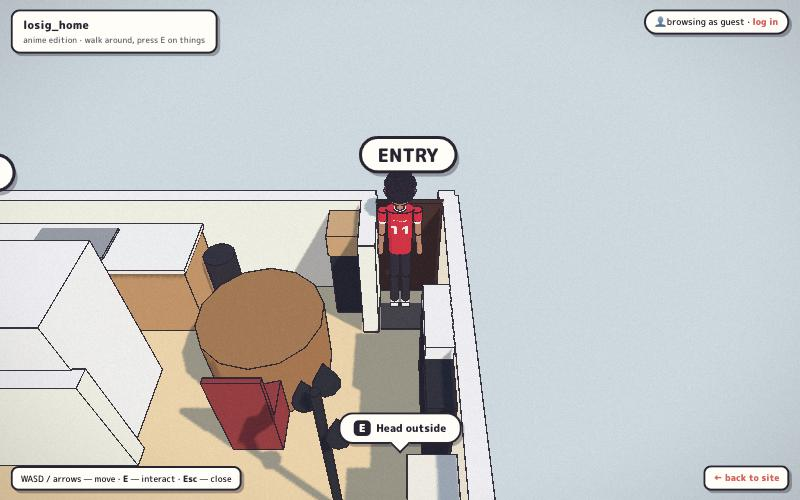
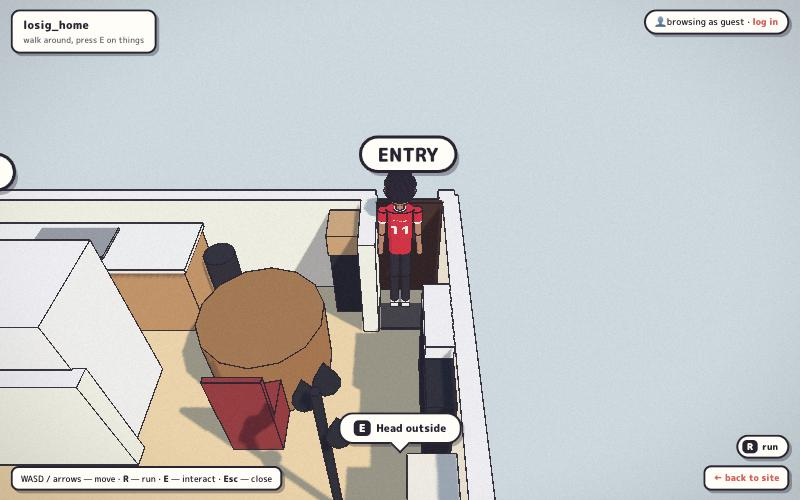
Closer outdoor camera, RAV4 marker, R to run
- outdoor camera pulled in (27 up, 25 back) so Ani reads bigger
- "MY RAV4" speech-bubble sticker floats over the car (overlay, visible
  through walls) so it's easy to find in the lot
- R toggles run (Run sticker on touch): 9 -> 20 ft/s outside, 6.5 -> 11
  in the apartment
- typing in panel forms no longer counts as game input (an "e" in a
  title used to close the panel)
- title badge drops "anime edition"; help line lists R
- screenshots and design doc refreshed

diff --git a/app/templates/game.html b/app/templates/game.html
@@ -34,6 +34,15 @@
   #prompt .key { display: inline-block; background: var(--ink); color: var(--paper);
     border-radius: 7px; padding: 0 8px; margin-right: 8px; }
   @keyframes bob { 50% { transform: translateX(-50%) translateY(-4px); } }
+  /* run toggle: R on a keyboard, this sticker on touch; inverted while running */
+  #run { bottom: 62px; right: 16px; font: inherit; font-size: .85rem; font-weight: 800; border-radius: 999px;
+    padding: 5px 14px 5px 6px; cursor: pointer; display: flex; align-items: center; gap: 7px;
+    -webkit-tap-highlight-color: transparent; }
+  #run .key { background: var(--ink); color: var(--paper); border-radius: 7px; padding: 0 7px; }
+  #run.on { background: var(--ink); color: var(--paper); }
+  #run.on .key { background: var(--paper); color: var(--ink); }
+  #run:active { transform: translate(2px, 2px); box-shadow: 1px 1px 0 rgba(42,36,51,.35); }
+  body.touch #run { padding: 10px 18px; font-size: 1rem; bottom: 64px; }
   /* interaction panel: paper drawer on the right */
   #panel { position: fixed; top: 12px; right: 12px; bottom: 12px; width: min(400px, calc(100vw - 24px));
     z-index: 20; background: var(--paper); color: var(--ink); border: 3px solid var(--ink);
@@ -93,7 +102,8 @@
   body.touch #prompt { -webkit-user-select: none; user-select: none; -webkit-touch-callout: none; }
   @media (max-width: 600px) { #title .sub, #help { display: none; }
     #authpill { top: auto; right: auto; bottom: 14px; left: 16px; }
-    #credit { left: auto; right: 12px; transform: none; } }
+    #credit { left: auto; right: 12px; transform: none; }
+    #prompt { bottom: 124px; } }
 </style>
 <script type="importmap">
 { "imports": { "three": "https://cdn.jsdelivr.net/npm/three@0.160.0/build/three.module.js" } }
@@ -102,10 +112,11 @@
 <body>
 <div id="scene"></div>
 
-<div class="hud" id="title"><b>losig_home</b><div class="sub">anime edition · walk around, press E on things</div></div>
+<div class="hud" id="title"><b>losig_home</b><div class="sub">walk around, press E on things</div></div>
 <div class="hud" id="authpill">…</div>
-<div class="hud" id="help"><span class="key-only">WASD / arrows — move · <b>E</b> — interact · <b>Esc</b> — close</span><span class="touch-only">drag anywhere — move · tap the bubble — interact</span></div>
+<div class="hud" id="help"><span class="key-only">WASD / arrows — move · <b>R</b> — run · <b>E</b> — interact · <b>Esc</b> — close</span><span class="touch-only">drag anywhere — move · tap the bubble — interact</span></div>
 <div class="hud" id="exit"><a href="/">← back to site</a></div>
+<button class="hud" id="run" type="button" aria-pressed="false"><span class="key key-only">R</span><span class="touch-only">🏃</span>run</button>
 <div class="hud" id="prompt" role="button"><span class="key"><span class="key-only">E</span><span class="touch-only">tap</span></span><span id="promptLabel"></span></div>
 <div id="stick" aria-hidden="true"><div class="knob"></div></div>
 <div class="hud" id="place" aria-live="polite"></div>

diff --git a/app/static/game/outside.js b/app/static/game/outside.js
@@ -14,7 +14,7 @@ does, its walls sink to the apartment's 4 ft cutaway height, the roof
 comes off, and a hollow version with cream partition walls and carpet
 takes its place, the same trick that makes the apartment readable.
 */import * as THREE from 'three';
-import { pencil, addLights, followSun, LABEL_FONT } from './pencil.js';
+import { pencil, addLights, followSun, makeMarker, LABEL_FONT } from './pencil.js';
 import { createBatch } from './batch.js';
 import { createRav4, drawParkedCar } from './car.js';
 import * as LOT from './home_lot.js';
@@ -50,7 +50,8 @@ const CAR_KINDS = ['sedan', 'suv', 'hatch', 'sedan', 'suv', 'sedan'];
 
 const CUT_H = 4;          // matches the apartment's cutaway walls
 const WALK_H = 0.25;      // sidewalks and walks are a step up from the grass
-const RUN = 13;           // ft/s on foot outside (a jog; the apartment walks at 6.5)
+const WALK_SPEED = 9;     // ft/s on foot outside (a brisk walk; the apartment is 6.5)
+const RUN_SPEED = 20;     // with run on (R / the Run button): a sprint
 
 // small deterministic PRNG so the woods grow the same way every load
 function rng(seed) {
@@ -541,6 +542,15 @@ export function buildOutside() {
 
   scene.add(b.build());
 
+  // a speech-bubble sticker over the RAV4 so it's easy to pick out of the lot;
+  // drawn in the un-inked overlay like the apartment's room labels, through walls
+  const overlay = new THREE.Scene();
+  const marker = makeMarker('MY RAV4');
+  const markerBase = new THREE.Vector3().copy(rav4.group.position).setY(7.2);
+  marker.position.copy(markerBase);
+  overlay.add(marker);
+  let markerT = 0;
+
   // standing height: sidewalks and walks are a step up
   function heightAt(x, z) {
     for (const r of LOT.WALKS) if (inRect(x, z, r)) return WALK_H;
@@ -570,6 +580,8 @@ export function buildOutside() {
   function update(dt, camera, player) {
     const { x, z, y } = player.state;
     followSun(sun, x, z);
+    markerT += dt;
+    marker.position.y = markerBase.y + Math.sin(markerT * 2.6) * 0.35;
     chest.set(x, y + 3.4, z);
     head.set(x, y + 6.2, z);
     for (const c of cuttables) {
@@ -588,18 +600,19 @@ export function buildOutside() {
 
   return {
     scene,
-    overlay: null,
+    overlay,
     colliders,
     bounds: LOT.BOUNDS,
     interactables: [
       { id: 'home-door', label: 'Go inside', x: 37.5, z: 63.9, r: 2.4, go: 'apartment' },
     ],
     entry: LOT.ENTRY,
-    speed: RUN,
+    speed: WALK_SPEED,
+    runSpeed: RUN_SPEED,
     heightAt,
     update,
     rav4,
-    view: { off: [0, 38, 36], lookY: 3, near: 0.5, far: 900, ink: [200, 520], widen: true },
+    view: { off: [0, 27, 25], lookY: 3, near: 0.5, far: 900, ink: [200, 520], widen: true },
     caption: 'Home · parking lot',
   };
 }

diff --git a/app/static/game/player.js b/app/static/game/player.js
@@ -5,9 +5,9 @@ Liverpool home jersey (M.SALAH 11), black jeans, white sneakers. Two-segment arm
 the code-driven walk cycle knees and elbows. Circle-vs-AABB collision,
 axis-separated so you slide along walls. Local +Z is forward.
 
-Each area hands update() its own colliders, walkable bounds, top speed and
-ground height (outside: a step up onto sidewalks). Past a brisk walk the
-cycle blends into a run: longer stride, bent arms, a forward lean.
+Each area hands update() its own colliders, walkable bounds, walk and run
+speeds and ground height (outside: a step up onto sidewalks). Past a brisk
+walk the cycle blends into a run: longer stride, bent arms, a forward lean.
 */import * as THREE from 'three';
 import { pencil } from './pencil.js';
 
@@ -195,9 +195,11 @@ export function createPlayer(scene) {
   }
 
   // move: {x, z} in world axes; length 1 is full speed (a touch stick can
-  // push less than that to walk slower). area: { colliders, bounds, speed, heightAt }
-  function update(dt, move, area) {
-    const speed = area.speed || WALK;
+  // push less than that to walk slower). area: { colliders, bounds, speed,
+  // runSpeed, heightAt }; running switches to the area's run speed.
+  function update(dt, move, area, running = false) {
+    const walk = area.speed || WALK;
+    const speed = running ? area.runSpeed || walk * 1.8 : walk;
     let dx = move.x, dz = move.z;
     const len = Math.hypot(dx, dz);
     state.moving = len > 0;
@@ -214,7 +216,7 @@ export function createPlayer(scene) {
       state.walkT += dt * 11 * (v <= 1 ? v : 1 + (v - 1) * 0.45);
     }
     // ease the run blend so the gait doesn't snap when a thumb wavers
-    const runTarget = state.moving ? Math.min(1, Math.max(0, (speed * pace - 8) / 4)) : 0;
+    const runTarget = state.moving ? Math.min(1, Math.max(0, (speed * pace - 9.5) / 5)) : 0;
     state.run += (runTarget - state.run) * Math.min(1, dt * 8);
     // step up/down onto raised ground (sidewalks) quickly but not instantly
     const groundY = area.heightAt ? area.heightAt(state.x, state.z) : 0;

diff --git a/app/static/game/pencil.js b/app/static/game/pencil.js
@@ -111,3 +111,54 @@ export function makeLabel(text) {
   sp.renderOrder = 20;
   return sp;
 }
+
+
+/**
+ * Floating marker: the same sticker as the room labels, with a speech-bubble
+ * tail pointing down at the thing it marks (the interact prompt's shape).
+ * Sized in world feet (`height` = the pill's height).
+ */
+export function makeMarker(text, height = 2.4) {
+  const fs = 30, pad = 26, border = 5, pillH = 60, tail = 22;
+  const cv = document.createElement("canvas");
+  const cx = cv.getContext("2d");
+  cx.font = `800 ${fs}px ${LABEL_FONT}`;
+  const w = Math.ceil(cx.measureText(text).width + pad * 2);
+  cv.width = w + 8;
+  cv.height = pillH + tail + 10;
+  const c = cv.getContext("2d");
+  const bubble = (dx, dy) => {
+    const r = pillH / 2 - border, x0 = border / 2 + dx, y0 = border / 2 + dy, x1 = x0 + w - border, y1 = y0 + pillH - border;
+    const mid = (x0 + x1) / 2;
+    c.beginPath();
+    c.moveTo(x0 + r, y0);
+    c.arcTo(x1, y0, x1, y1, r);
+    c.arcTo(x1, y1, mid + 13, y1, r);
+    c.lineTo(mid + 13, y1);
+    c.lineTo(mid, y1 + tail);
+    c.lineTo(mid - 13, y1);
+    c.arcTo(x0, y1, x0, y0, r);
+    c.arcTo(x0, y0, x1, y0, r);
+    c.closePath();
+  };
+  c.fillStyle = "rgba(42,36,51,0.35)";
+  bubble(7, 8); c.fill();
+  c.fillStyle = "#fffdf6";
+  c.strokeStyle = "#2a2433";
+  c.lineWidth = border;
+  c.lineJoin = "round";
+  bubble(0, 0); c.fill(); c.stroke();
+  c.font = `800 ${fs}px ${LABEL_FONT}`;
+  c.fillStyle = "#2a2433";
+  c.textBaseline = "middle";
+  c.fillText(text, pad, pillH / 2 + 1);
+  const tex = new THREE.CanvasTexture(cv);
+  tex.colorSpace = THREE.SRGBColorSpace;
+  const sp = new THREE.Sprite(new THREE.SpriteMaterial({ map: tex, depthTest: false, transparent: true }));
+  const s = height / pillH;
+  sp.scale.set(cv.width * s, cv.height * s, 1);
+  const tipY = border / 2 + pillH - border + tail;
+  sp.center.set(0.5, (cv.height - tipY) / cv.height); // anchor at the tail tip: position = the point it marks
+  sp.renderOrder = 20;
+  return sp;
+}

diff --git a/app/static/game/main.js b/app/static/game/main.js
@@ -23,6 +23,7 @@ const panelBody = document.getElementById("panelBody");
 const authPill = document.getElementById("authpill");
 const fadeEl = document.getElementById("fade");
 const placeEl = document.getElementById("place");
+const runBtn = document.getElementById("run");
 
 let renderer;
 try {
@@ -96,8 +97,19 @@ addEventListener("resize", () => {
 
 // ---- input ----
 const keys = {};
+let running = false; // R (or the Run sticker on touch) toggles the area's run speed
+function setRunning(on) {
+  running = on;
+  runBtn.classList.toggle("on", on);
+  runBtn.setAttribute("aria-pressed", String(on));
+}
+runBtn.addEventListener("click", () => setRunning(!running));
+
 addEventListener("keydown", (e) => {
+  // typing into a panel form isn't game input (an "e" in a title shouldn't close the panel)
+  if (e.target.closest?.("input, textarea, select")) return;
   const k = e.key.toLowerCase();
+  if (k === "r" && !e.repeat) setRunning(!running);
   if (["arrowup", "arrowdown", "arrowleft", "arrowright", " "].includes(k)) e.preventDefault();
   keys[k === " " ? " " : k] = true;
   if (k === "e" && !panelOpen && nearest) use(nearest);
@@ -253,7 +265,7 @@ function tick() {
   requestAnimationFrame(tick);
   const dt = Math.min(clock.getDelta(), 0.05);
 
-  if (!panelOpen && !travelling) player.update(dt, dir(), area);
+  if (!panelOpen && !travelling) player.update(dt, dir(), area, running);
 
   nearest = travelling ? null : findNearest();
   if (nearest && !panelOpen) {

diff --git a/app/static/game/world.js b/app/static/game/world.js
@@ -120,6 +120,7 @@ export function buildApartment() {
     bounds: BOUNDS,
     interactables: INTERACTABLES,
     entry: SPAWN,
+    runSpeed: 11, // walks at the player's default 6.5 ft/s
     // camera offset from the player, look-at height, far plane, ink fade band
     view: { off: [0, 14.5, 12], lookY: 2.6, far: 200, ink: [55, 110] },
     caption: 'Home · apartment',

diff --git a/docs/town/DESIGN.md b/docs/town/DESIGN.md
@@ -87,7 +87,8 @@ read its origin from an untracked local setting and strip `name` tags.
     rises, lateral grip and a handbrake drift.
   - Poles and signs break above about 8 mph. Sidewalks don't collide.
 - **Cameras:**
-  - On foot: the follow camera, plus yaw rotation in Phase 2.
+  - On foot: the follow camera, closer outdoors (27 ft up, 25 back), plus
+    yaw rotation in Phase 2.
   - Chase: a spring follow whose FOV widens with speed, and which pulls in
     off walls.
   - Cockpit: a modelled toon dash.
@@ -111,8 +112,11 @@ read its origin from an untracked local setting and strip `name` tags.
    - The home lot measured from OSM plus NAIP: both buildings, stalls,
      spur, driveway, street frontage, sidewalks, trees, lights, parked
      cars, and the RAV4 as a solid prop.
-   - Outdoor running, the dollhouse cutaway, the following sun, the OSM
-     credit and a privacy test.
+   - Outdoors Ani walks at 9 ft/s; **R** (or the Run sticker on touch)
+     toggles a 20 ft/s sprint, also 11 ft/s in the apartment.
+   - A "MY RAV4" speech-bubble marker floats over the car.
+   - The dollhouse cutaway, the following sun, the OSM credit and a
+     privacy test.
 2. **A drivable RAV4**: get in and out, arcade handling, chase and cockpit
    cameras, touch pedals, and collisions in the lot and a few blocks of
    street.
